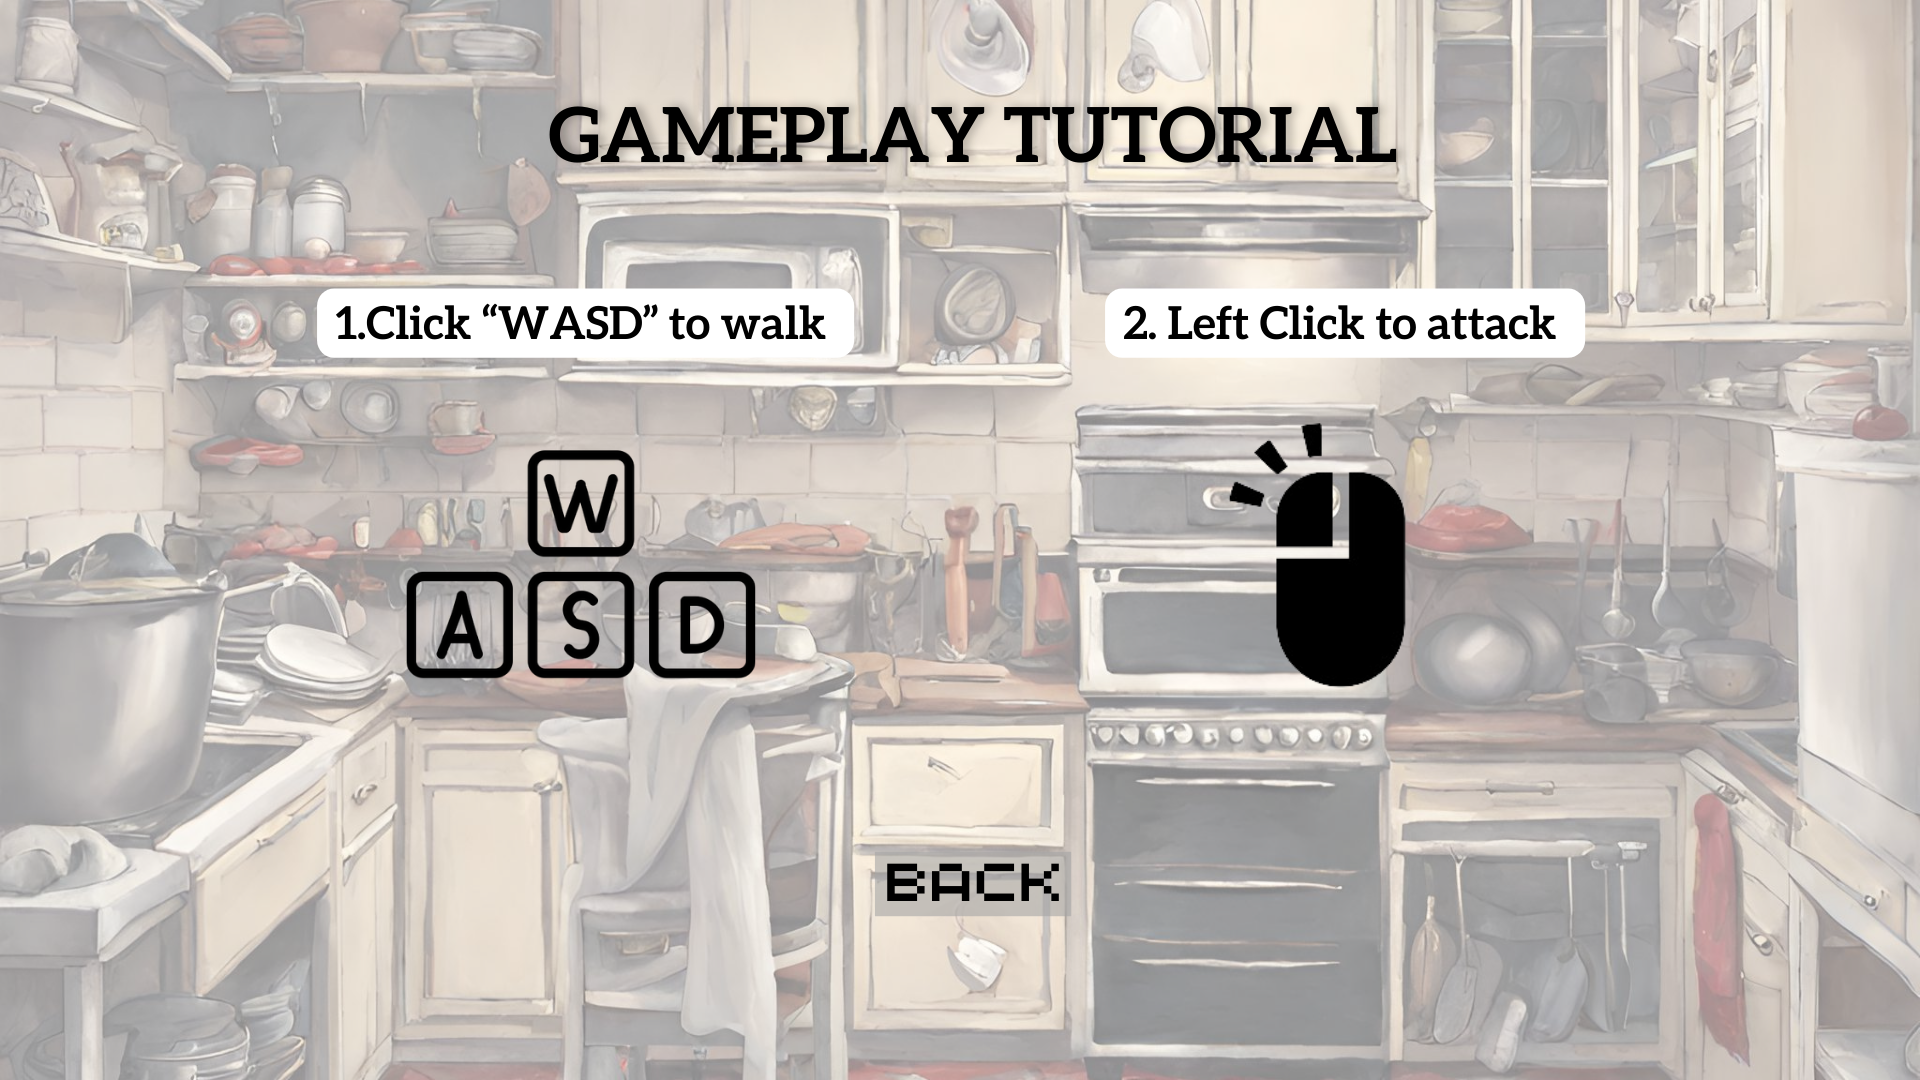
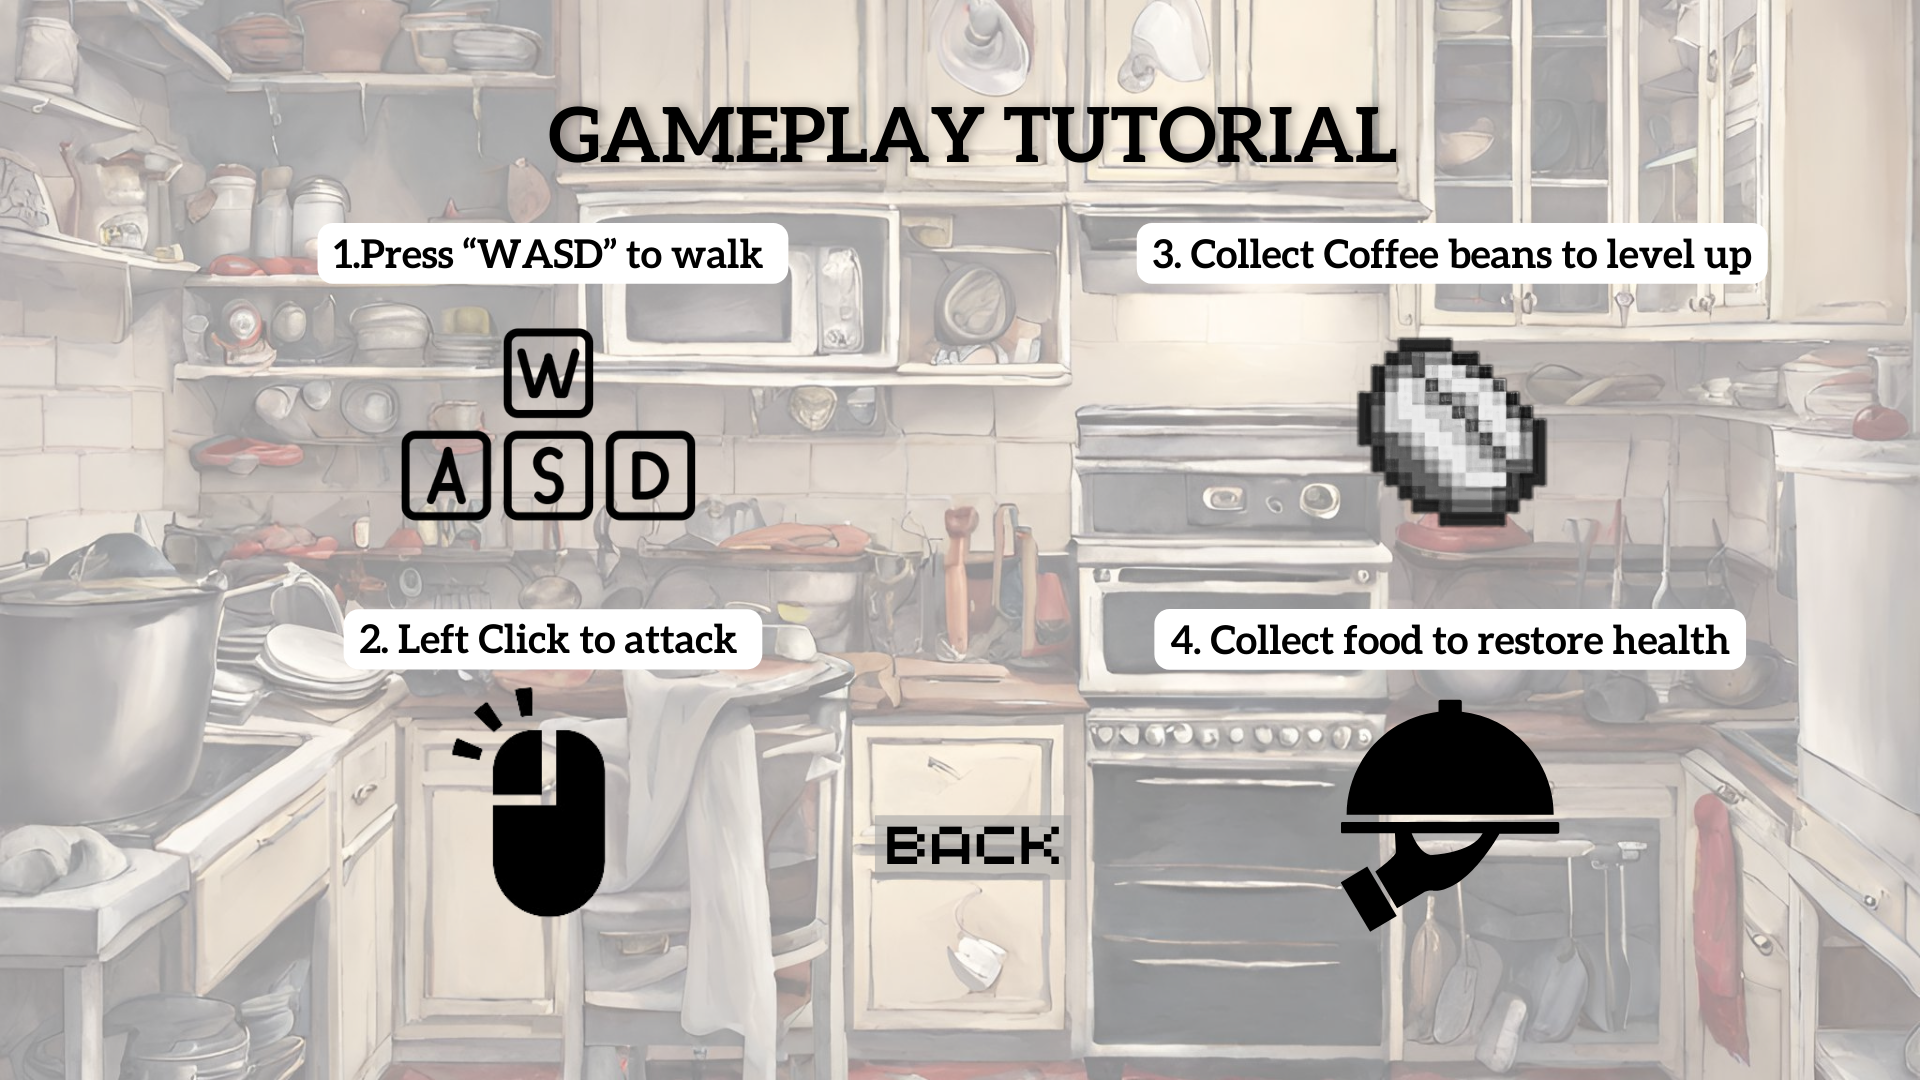
update tutorial

Changed region(s): [[0.5625, 0.1833, 0.9375, 0.8556], [0.1562, 0.1833, 0.4688, 0.8556], [0.4375, 0.7333, 0.5625, 0.8556]]

diff --git a/BIT_Kitchen_Nightmare/Main.c b/BIT_Kitchen_Nightmare/Main.c
@@ -17,10 +17,9 @@ SDL_Window* window = NULL;
 SDL_Renderer* renderer = NULL;
 SDL_Texture* map_texture = NULL;
 SDL_Texture* start_button_texture = NULL;
-SDL_Texture* setting_button_texture = NULL;
-SDL_Texture* collection_button_texture = NULL;
-SDL_Texture* shop_button_texture = NULL;
 SDL_Texture* menu_background_texture = NULL;
+SDL_Texture* tutorial_button_texture = NULL;
+SDL_Texture* tutorial_background_texture = NULL;
 SDL_Texture* game_over_texture = NULL;
 SDL_Texture* congrates_texture = NULL;
 SDL_Texture* retry_texture = NULL;
@@ -167,7 +166,8 @@ enum GameState {
 	GAME_STATE_PAUSE_MENU,
 	GAME_STATE_WIN,
 	GAME_STATE_LOSE,
-	GAME_STATE_CUTSCENE
+	GAME_STATE_CUTSCENE,
+	GAME_STATE_TUTORIAL
 };
 enum GameState gameState = GAME_STATE_MAIN_MENU;
 
@@ -228,6 +228,8 @@ void game_lose_state_render(void);
 int game_win_process_input(void);
 void game_win_state_render(void);
 void pause_render(void);
+int tutorial_process_input();
+void tutorial_render();
 void update_camera(void); 
 void cap_framerate(int* last_frame_time, float* delta_time); //FPS
 void process_exp_drops();
@@ -273,12 +275,27 @@ int main(int argc, char* argv[]) {
 				currentMusicTrack = MAIN_MENU_MUSIC; // Update the current music track
 				}
 
-				if (menu_process_input() == 1) {
+				int menu_option = menu_process_input();
+
+				if (menu_option == 1) {
 					//startTimer();
 					gameState = GAME_STATE_CUTSCENE; //just for debug
 				}
+				else if (menu_option == 2) {
+					gameState = GAME_STATE_TUTORIAL;
+				}
 					menu_render();
 				
+				break;
+
+			case GAME_STATE_TUTORIAL:
+
+				if (tutorial_process_input() == 1) {
+					gameState = GAME_STATE_MAIN_MENU;
+				}
+
+				tutorial_render();
+
 				break;
 
 			case GAME_STATE_CUTSCENE:{
@@ -506,6 +523,15 @@ int menu_process_input() {
 				return 1; // Start the game
 			}
 		}
+
+		if (event.type == SDL_MOUSEBUTTONDOWN) {
+			int x, y;
+			SDL_GetMouseState(&x, &y);
+			if (x >= 830 && x <= 1089 && y >= 700 && y <= 847) { // If the mouse click is within the start button area
+				AudioManager_PlayEffect(SOUND_CLICK);
+				return 2; // Enter tutorial
+			}
+		}
 		
 	}
 
@@ -663,6 +689,30 @@ int pause_process_input() {
 	return 3;
 }
 
+int tutorial_process_input() {
+
+	const Uint8* state = SDL_GetKeyboardState(NULL);
+	SDL_Event event;
+
+	while (SDL_PollEvent(&event)) {
+		if (event.type == SDL_QUIT) {
+			game_is_running = FALSE;
+		}
+
+		if (event.type == SDL_MOUSEBUTTONDOWN) {
+			int x, y;
+			SDL_GetMouseState(&x, &y);
+			if (x >= 875 && x <= 1071 && y >= 815 && y <= 880) { // If the mouse click is within the start button area
+				AudioManager_PlayEffect(SOUND_CLICK);
+				return 1; // Start the game
+			}
+		}
+
+	}
+
+	return 0;
+}
+
 SDL_Texture* load_texture(const char* filename, SDL_Renderer* renderer) {
 	SDL_Surface* surface = IMG_Load(filename);
 	if (!surface) {
@@ -691,10 +741,12 @@ void setup() {
 	
 	//Lobby
 	start_button_texture = load_texture("Assets/Lobby/Button1-Play.png", renderer);
-	setting_button_texture = load_texture("Assets/Lobby/Button2-Setting.png", renderer);
-	collection_button_texture = load_texture("Assets/Lobby/Button3-Collection.png", renderer);
-	shop_button_texture = load_texture("Assets/Lobby/Button4-Shop.png", renderer);
 	menu_background_texture = load_texture("Assets/Lobby/main_menu_background.png", renderer);
+	tutorial_button_texture = load_texture("Assets/Lobby/Tutorial.png", renderer);
+
+	//tutorial
+	tutorial_background_texture = load_texture("Assets/Tutorial/TUTORIAL.png", renderer);
+
 
 	//Pasue menu
 	resume_button_texture = load_texture("Assets/Pause_menu/Resume_button.png", renderer);
@@ -1697,14 +1749,8 @@ void menu_render() {
 		SDL_Rect start_button_rect = { 780, 550, 360, 98 };
 		SDL_RenderCopy(renderer, start_button_texture, NULL, &start_button_rect);
 
-		SDL_Rect setting_button_rect = { 784, 675, 353, 88 };
-		SDL_RenderCopy(renderer, setting_button_texture, NULL, &setting_button_rect);
-
-		SDL_Rect collection_button_rect = { 784, 788, 353, 88 };
-		SDL_RenderCopy(renderer, collection_button_texture, NULL, &collection_button_rect);
-
-		SDL_Rect shop_button_rect = { 784, 901, 353, 88 };
-		SDL_RenderCopy(renderer, shop_button_texture, NULL, &shop_button_rect);
+		SDL_Rect tutorial_button_rect = { 808, 700, 295, 47 };
+		SDL_RenderCopy(renderer, tutorial_button_texture, NULL, &tutorial_button_rect);
 
 	
 	SDL_RenderPresent(renderer);
@@ -1784,6 +1830,17 @@ void gameplay_render() {
 
 
 	SDL_RenderPresent(renderer);
+}
+
+void tutorial_render() {
+
+	SDL_RenderClear(renderer);
+
+	SDL_Rect tutorial_background_rect = { 0, 0, WINDOW_WIDTH, WINDOW_HEIGHT };
+	SDL_RenderCopy(renderer, tutorial_background_texture, NULL, &tutorial_background_rect);
+
+	SDL_RenderPresent(renderer);
+	
 }
 
 void game_lose_state_render() {
